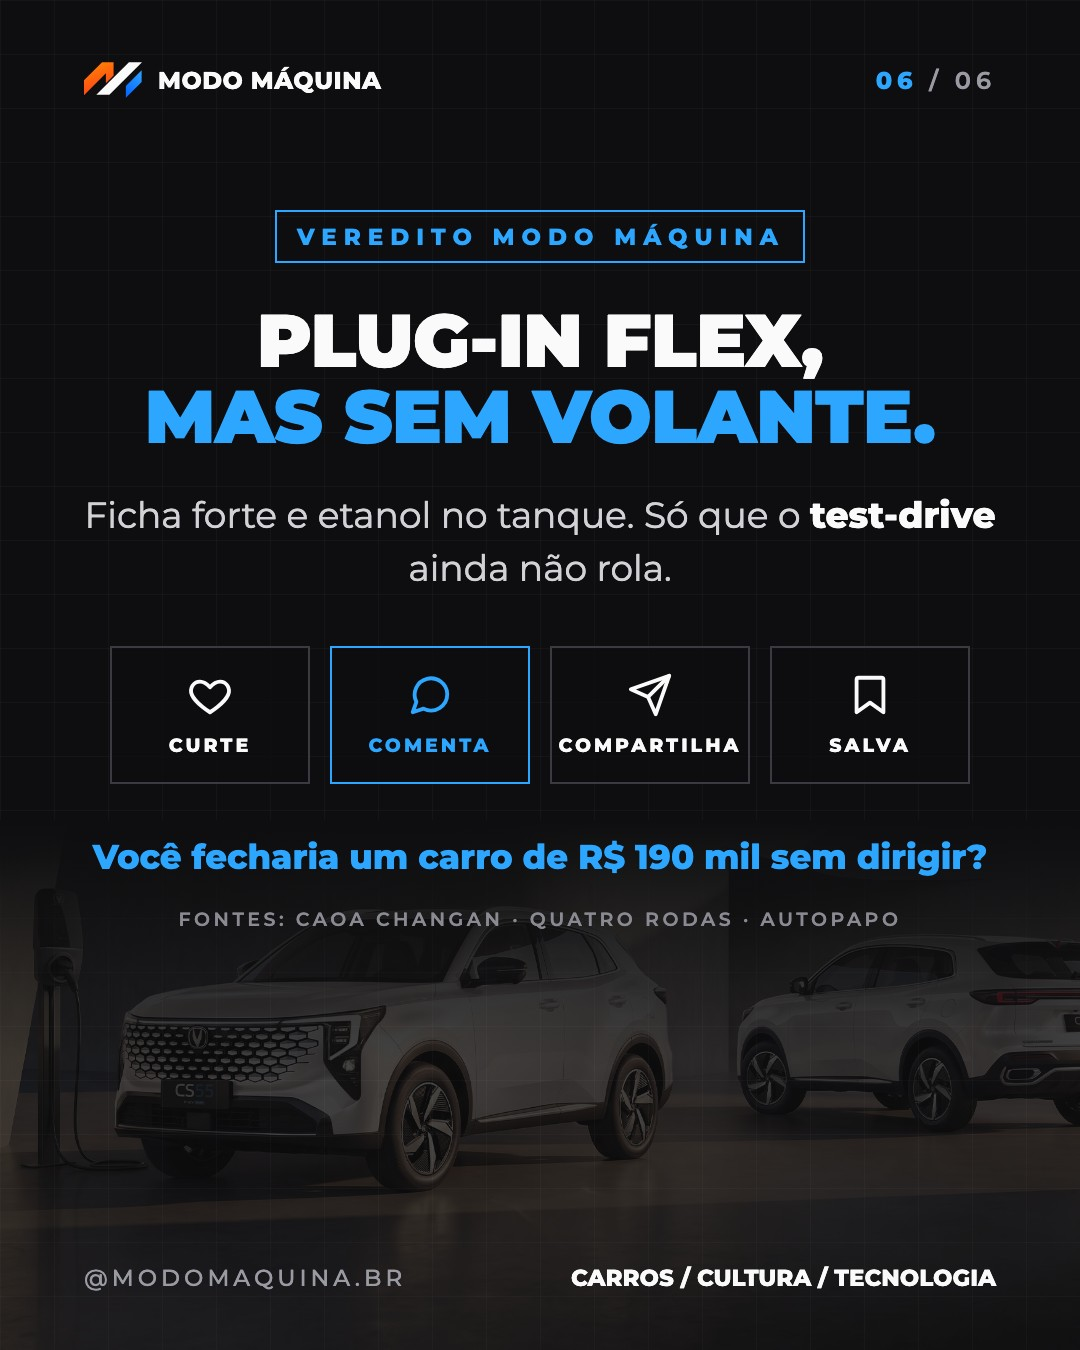
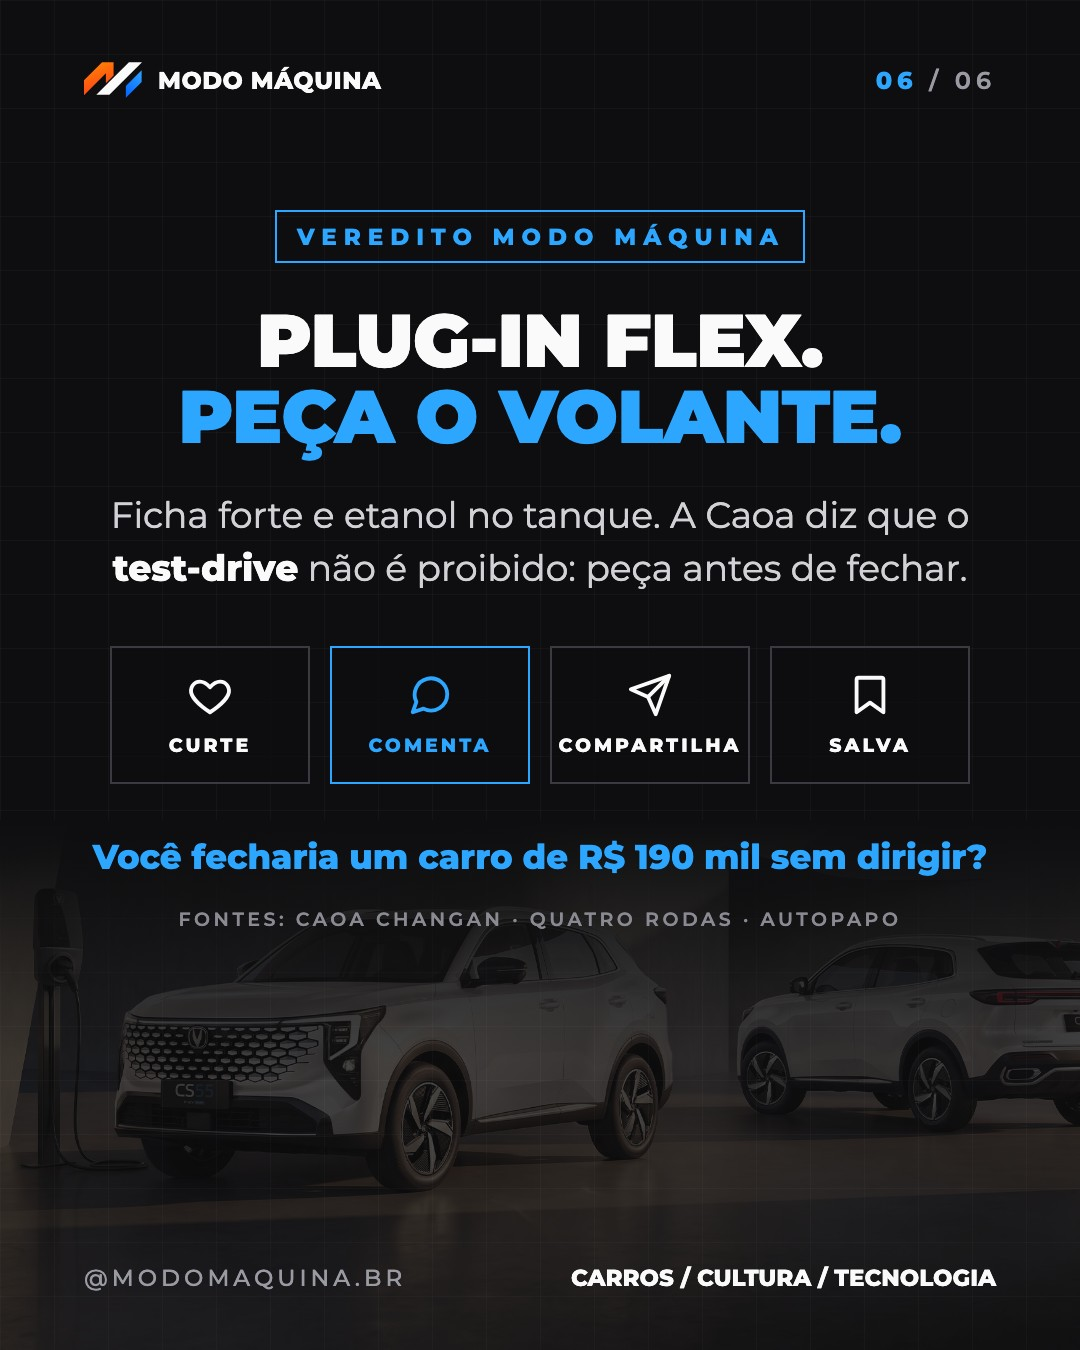
Revisão das pautas de 31/10: CS55 PHEV (Caoa diz que não proíbe test-drive, QR atualizada) e Haas/Ocon (nota do Ocon nega violência, Hirakawa 19º na quali); Haas vai pra dom 9h e CS55 pra 12h

Changed region(s): [[0.0917, 0.3733, 0.9167, 0.4356], [0.1222, 0.2489, 0.8861, 0.3422]]

diff --git a/lib/content.js b/lib/content.js
@@ -24,8 +24,8 @@ export const POSTS = [
     slug: 'caoa-changan-cs55-phev-hibrido-flex-preco-concessionarias',
     coverLabel: 'Lançamento',
     cover: { src: '/media/artigos/caoa-changan-cs55-phev-capa.jpg', alt: 'Dois Caoa Changan CS55 brancos num estúdio, um de frente ao lado de um carregador de parede e outro de traseira', credit: 'Foto: Caoa Changan/Divulgação' },
-    title: 'Caoa Changan CS55 híbrido flex chega às lojas: 286 cv por R$ 189.990, mas sem test-drive',
-    subtitle: 'A versão plug-in que aceita etanol e a Prime, de entrada, finalmente apareceram nas concessionárias. Dá pra ver o carro de perto, mas o híbrido ainda não pode ser dirigido, e o prazo de entrega depende de quem fala.',
+    title: 'Caoa Changan CS55 híbrido flex chega às lojas: 286 cv por R$ 189.990, mas test-drive e prazo viram dúvida',
+    subtitle: 'A versão plug-in que aceita etanol e a Prime, de entrada, finalmente apareceram nas concessionárias. Dá pra ver o carro de perto, mas o test-drive e o prazo de entrega dependem de quem fala: a loja ou a marca.',
     editoria: 'futuro-em-movimento',
     date: '2026-10-31',
     author: 'Marlon Rosa',
@@ -33,9 +33,9 @@ export const POSTS = [
     body: [
       { type: 'p', text: 'O Caoa Changan CS55 foi lançado no Brasil em setembro, mas até agora só uma das três versões estava nas lojas: a Infinity. Quem queria a Prime, de entrada, ou o híbrido plug-in flex precisava encomendar sem ver o carro. Segundo a Quatro Rodas, isso mudou: as duas versões chegaram às concessionárias nesta semana.' },
       { type: 'p', text: 'Os preços estão no site oficial da Caoa Changan: R$ 144.990 na Prime, R$ 154.990 na Infinity e R$ 189.990 na PHEV. No híbrido, esse valor vale pra cor preta sólida; nas outras cores, são R$ 2.000 a mais. No site, a marca ainda diz que a PHEV está disponível "exclusivamente para reserva".' },
-      { type: 'h2', text: 'Dá pra ver, mas não dá pra dirigir' },
-      { type: 'p', text: 'Segundo a Quatro Rodas, quem fechar negócio no CS55 PHEV ainda não consegue fazer test-drive. E o prazo de entrega tem duas versões: nas concessionárias, a revista ouviu que são 60 dias pras versões recém-chegadas. A Caoa Changan nega e diz que o primeiro lote do PHEV já está no Brasil, com entrega em até 15 dias.' },
-      { type: 'callout', big: '60 ou 15 dias?', text: 'As lojas falam em 60 dias de espera; a Caoa Changan diz que o híbrido sai em até 15. Vale perguntar na concessionária e pôr o prazo no pedido.' },
+      { type: 'h2', text: 'Dá pra ver. E dá pra dirigir?' },
+      { type: 'p', text: 'Segundo a Quatro Rodas, nas concessionárias o test-drive do CS55 PHEV ainda não estava liberado. A Caoa Changan diz o contrário: a orientação às lojas é de que não existe proibição de test-drive. O prazo de entrega também tem duas versões: nas concessionárias, a revista ouviu que são 60 dias pras versões recém-chegadas. A Caoa Changan nega e diz que o primeiro lote do PHEV já está no Brasil, com entrega em até 15 dias.' },
+      { type: 'callout', big: '60 ou 15 dias?', text: 'As lojas falam em 60 dias de espera; a Caoa Changan diz que o híbrido sai em até 15 e que o test-drive não é proibido. Vale pedir pra dirigir e pôr o prazo no pedido.' },
       { type: 'h2', text: 'O que o híbrido flex tem' },
       { type: 'p', text: 'A PHEV junta um motor 1.5 turbo flex a gasolina ou etanol com um motor elétrico, gerenciados por uma transmissão híbrida dedicada (DHT). Pela ficha oficial, o conjunto entrega 286 cv e 47 kgfm combinados e leva o SUV de 0 a 100 km/h em 7,2 segundos.' },
       { type: 'p', text: 'A Caoa Changan anuncia consumo de até 42,2 km/l e autonomia de até 1.200 km. Atenção: os 42,2 km/l são o número da marca, com o motor elétrico ajudando na cidade, e não o consumo só com o motor a combustão. Segundo a AutoPapo, a bateria tem 18,4 kWh e o SUV roda só no elétrico na cidade até 70 km/h; a autonomia no modo 100% elétrico não foi divulgada.' },
@@ -56,7 +56,7 @@ export const POSTS = [
     ],
     sources: [
       { label: 'Caoa Changan (site oficial) — CS55 Ultra-Hybrid PHEV Flex: preço, ficha e condições (acesso em 31/10/2026)', url: 'https://caoachangan.com.br/novos/cs55-phev' },
-      { label: 'Quatro Rodas — Caoa Changan CS55 PHEV flex já está nas concessionárias, mas prazo de entrega pode assustar (30/10/2026)', url: 'https://quatrorodas.abril.com.br/noticias/caoa-changan-cs55-phev-flex-ja-esta-nas-concessionarias-mas-prazo-de-entrega-pode-assustar/' },
+      { label: 'Quatro Rodas — Caoa Changan CS55 PHEV flex já está nas concessionárias, mas prazo de entrega pode assustar (30/10/2026, atualizada em 31/10)', url: 'https://quatrorodas.abril.com.br/noticias/caoa-changan-cs55-phev-flex-ja-esta-nas-concessionarias-mas-prazo-de-entrega-pode-assustar/' },
       { label: 'AutoPapo — Caoa Changan surpreende com CS55 PHEV e versões com preços a partir de R$ 144.990 (16/09/2026)', url: 'https://autopapo.com.br/noticia/caoa-changan-cs55/' },
     ],
   },
@@ -80,24 +80,29 @@ export const POSTS = [
         'Hirakawa tem 32 anos, é bicampeão do Mundial de Endurance (2022 e 2023) e venceu as 24 Horas de Le Mans de 2022 com a Toyota Gazoo Racing',
         'Na sexta (30), ele já tinha andado no primeiro treino livre e terminou em 15º. Foi o terceiro treino dele no ano com o VF-26, o carro da Haas',
       ] },
-      { type: 'h2', text: 'Ocon está doente?' },
-      { type: 'p', text: 'Não. Segundo o The Race e o Motorsport.com, a Haas garantiu que a troca não tem a ver com problema de saúde. Sem outra explicação, o The Race avalia que o francês foi afastado.' },
+      { type: 'p', text: 'Na classificação deste sábado, a primeira dele na F1, Hirakawa fez o 19º tempo, segundo o The Race.' },
+      { type: 'h2', text: 'O que aconteceu com o Ocon?' },
+      { type: 'p', text: 'Não foi problema de saúde. Segundo o Motorsport.com, a Haas garantiu isso, e o The Race também diz que a troca não tem a ver com doença ou lesão.' },
       { type: 'p', text: 'A sexta-feira já tinha sido tensa. Ocon só andou no segundo treino, porque Hirakawa usou o carro dele no primeiro (o regulamento obriga as equipes a dar treinos a estreantes). Ele terminou em 13º, à frente de Bearman, mas reclamou no rádio com a engenheira Laura Mueller quando a equipe trocou o pneu macio pelo médio na simulação de corrida, segundo o The Race. Depois da sessão, voltou pra área da equipe de capacete, visivelmente insatisfeito, conta o site.' },
+      { type: 'p', text: 'Segundo o SporTV, citado pelo Motorsport.com, Ocon e integrantes da equipe tiveram uma forte discussão na sexta, depois desse atrito no rádio, e o francês já deixou o México. O The Race conta que o jornal francês L’Équipe chegou a sugerir que a conversa com o chefe da equipe, Ayao Komatsu, terminou de forma brusca, talvez até com contato físico.' },
+      { type: 'p', text: 'Ocon ficou em silêncio a maior parte do sábado. Depois da classificação, soltou uma nota: reconhece que uma diferença de pontos de vista levou a uma discussão na sexta à noite, mas rejeita categoricamente qualquer relato de violência física e pede que se evite especulação. Komatsu não quis comentar, segundo o The Race.' },
       { type: 'img', src: '/media/artigos/haas-vf26-spa-2026.jpg', alt: 'Os dois carros da Haas, com Oliver Bearman e Esteban Ocon, em Spa-Francorchamps em 2026', caption: 'Os dois carros da Haas, de Bearman e Ocon, em Spa-Francorchamps, em julho.', credit: 'Foto: Der Alf/Wikimedia Commons (CC BY 4.0)' },
       { type: 'h2', text: 'Onde entra o Rafael Câmara' },
       { type: 'p', text: 'Ocon já estava de saída. A Haas anunciou que o pernambucano Rafael Câmara, campeão da F3 em 2025 e piloto da academia da Ferrari, vai ocupar a vaga dele em 2027. Hirakawa, ligado à Toyota, parceira da Haas, era um dos candidatos a essa vaga e perdeu pro brasileiro, segundo o The Race e o Motorsport.com.' },
       { type: 'link', href: '/artigos/rafael-camara-haas-f1-2027-quem-e', text: 'Conheça o Rafael Câmara, o novo piloto da Haas →' },
-      { type: 'callout', big: 'Interlagos?', text: 'Depois do México, faltam Brasil, Las Vegas, Catar e Abu Dhabi. A Haas não diz quem corre no GP de São Paulo, e o Motorsport.com diz que, por enquanto, não há sinal de que Câmara vai correr pela equipe em Interlagos.' },
+      { type: 'callout', big: 'Interlagos?', text: 'Depois do México, faltam Brasil, Las Vegas, Catar e Abu Dhabi. A Haas não diz quem corre no GP de São Paulo, e o Motorsport.com diz que, por enquanto, não há sinal de que Câmara vai correr pela equipe em Interlagos. Segundo a jornalista Julianne Cerasoli, do UOL, citada pelo site, a Ferrari ainda não recebeu pedido pra liberar o brasileiro.' },
       { type: 'h2', text: 'E o futuro do Ocon' },
       { type: 'p', text: 'Segundo apurou o Motorsport.com, Ocon deve ser piloto reserva da Aston Martin em 2027. Nem o piloto nem a Aston Martin confirmaram.' },
       { type: 'p', text: 'Já Hirakawa entra pra história de um jeito curioso: com 32 anos, vai ser o estreante mais velho da F1 desde André Lotterer, que correu pela Caterham na Bélgica em 2014, também com 32, lembra o The Race.' },
-      { type: 'p', text: 'A Haas acertou em tirar o Ocon agora? E você queria ver o Câmara já em Interlagos? Conta pra gente no Instagram.' },
+      { type: 'p', text: 'A Haas acertou em tirar o Ocon no meio do fim de semana? E você queria ver o Câmara já em Interlagos? Conta pra gente no Instagram.' },
     ],
     sources: [
       { label: 'Haas F1 Team (comunicado oficial) — Team Statement - Driver Update (31/10/2026)', url: 'https://www.haasf1team.com/news/team-statement-driver-update' },
       { label: 'The Race — Ocon suddenly replaced at Haas for rest of Mexico F1 weekend (31/10/2026)', url: 'https://www.the-race.com/formula-1/esteban-ocon-replaced-haas-f1-rest-of-mexico-f1-weekend/' },
       { label: 'Motorsport.com Brasil — F1: Ocon está fora do GP do México; Hirakawa é seu substituto (31/10/2026)', url: 'https://motorsport.uol.com.br/f1/news/f1-ocon-esta-fora-do-gp-do-mexico-hirakawa-e-seu-substituto/' },
       { label: 'Motorsport.com Brasil — Ocon deve ser reserva da Aston Martin na temporada 2027 da F1 (31/10/2026)', url: 'https://motorsport.uol.com.br/f1/news/ocon-deve-ser-reserva-da-aston-martin-na-temporada-2027-da-f1/10870213/' },
+      { label: 'Motorsport.com Brasil — F1: Ocon deixa o México após treta com a Haas; Rafa Câmara pode substituí-lo no Brasil? (31/10/2026)', url: 'https://motorsport.uol.com.br/f1/news/f1-ocon-deixa-o-mexico-apos-treta-com-a-haas-rafa-camara-pode-substitui-lo-no-brasil/10870233/' },
+      { label: 'The Race — Ocon denies using violence in his disagreement with Haas (31/10/2026)', url: 'https://www.the-race.com/formula-1/ocon-denies-using-violence-in-his-disagreement-with-haas/' },
     ],
   },
   {
